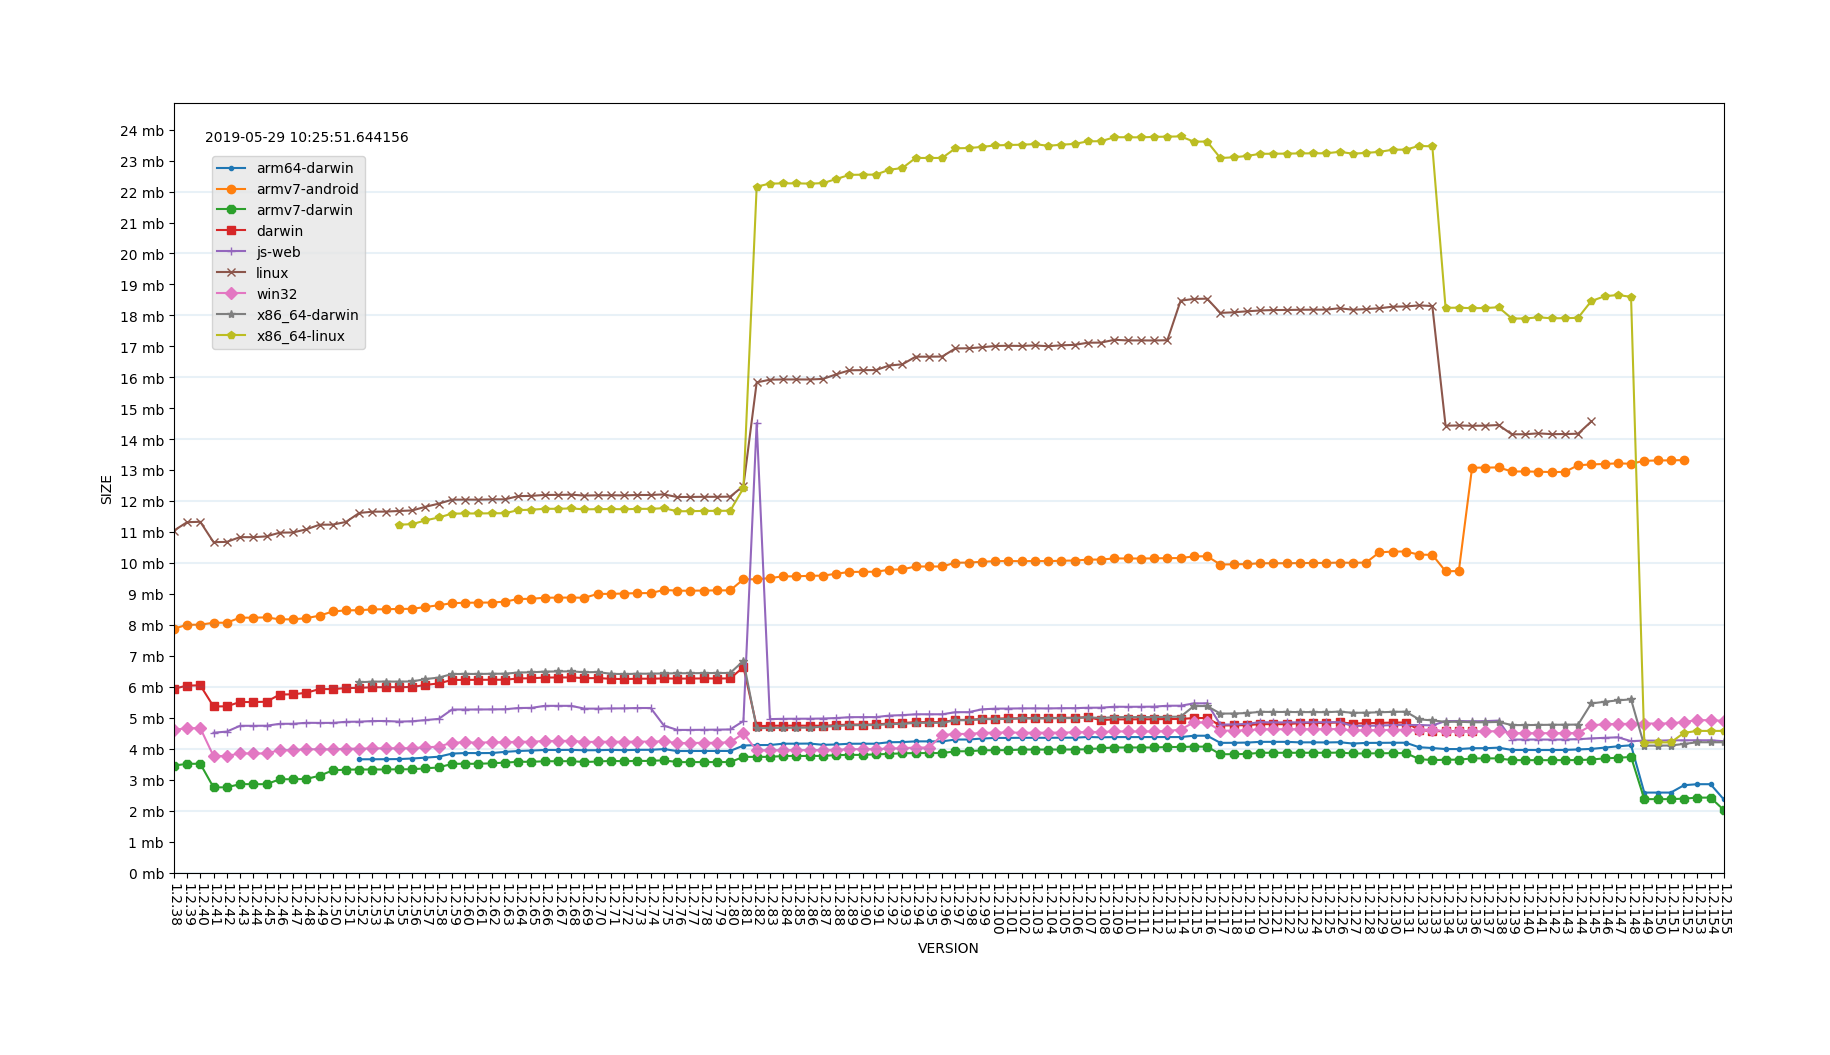
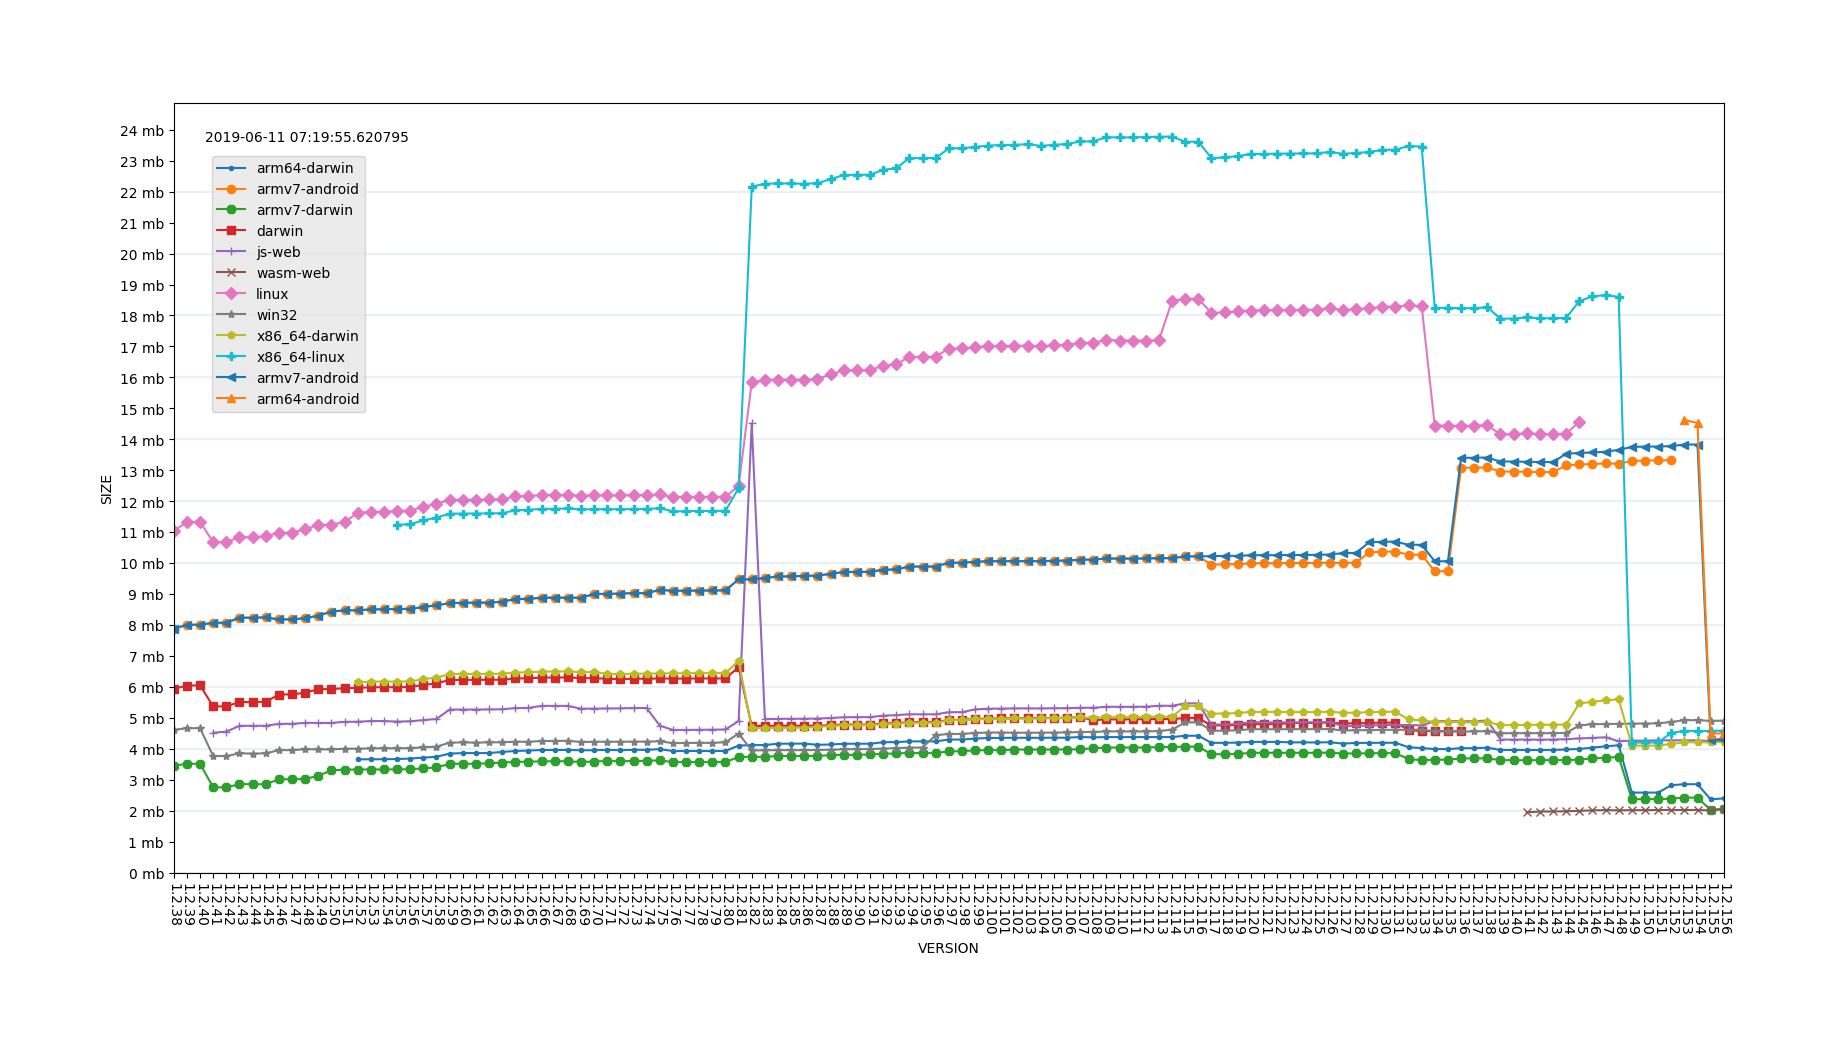
Added arm64-android and wasp-web as new platforms Added a size_small.png that will better show the actual sizes of the stripped engines

diff --git a/check_size.py b/check_size.py
@@ -33,14 +33,17 @@ def read_releases(path):
 
 engines = [
     {"platform": "arm64-darwin", "filename": "dmengine_release"},
-    {"platform": "armv7-android", "filename": "dmengine_release.apk"},
+    {"platform": "armv7-android", "filename": "dmengine_release.apk"}, # added in 1.2.153
     {"platform": "armv7-darwin", "filename": "dmengine_release"},
     {"platform": "darwin", "filename": "dmengine_release"},
     {"platform": "js-web", "filename": "dmengine_release.js"},
+    {"platform": "wasm-web", "filename": "dmengine_release.wasm"}, # added in 1.2.141
     {"platform": "linux", "filename": "dmengine_release"},
     {"platform": "win32", "filename": "dmengine_release.exe"},
     {"platform": "x86_64-darwin", "filename": "dmengine_release"},
     {"platform": "x86_64-linux", "filename": "dmengine_release"},
+    {"platform": "armv7-android", "filename": "dmengine.apk"},
+    {"platform": "arm64-android", "filename": "dmengine.apk"},
 ]
 
 def create_report(releases):
@@ -84,10 +87,25 @@ def create_report(releases):
 
             writer.writerow(row)
 
+def parse_version(version_str):
+    return map(int, version_str.split('.'))
 
-def create_graph():
+def create_graph(out, from_version=None):
     with open('report.csv', 'r') as f:
         data = list(csv.reader(f))
+
+        # only keep the versions starting with from_version and above
+        if from_version is not None:
+            from_version = parse_version(from_version)
+            new_data = []
+            for line in data:
+                if not line[0].startswith('1.2.'):
+                    new_data.append(line)
+                    continue
+                version = parse_version(line[0])
+                if version >= from_version:
+                    new_data.append(line)
+            data = new_data
 
         # get all versions, ignore column headers
         versions = [i[0] for i in data[1::]]
@@ -96,7 +114,9 @@ def create_graph():
         fig, ax = pyplot.subplots(figsize=(20, 10))
         pyplot.xticks(xaxis_version, versions, rotation=270)
         max_ysize = 0
-        for engine, marker in zip(range(1, len(data[0])), itertools.cycle('.o8s+xD*p')):
+        markers = '.o8s+xD*pP<^'
+        assert(len(markers) >= (len(data[0])-1)) # we need unique markers for each platform
+        for engine, marker in zip(range(1, len(data[0])), markers):
             yaxis_size = [i[engine] for i in data[1::]]
             # convert from string to int
             yaxis_size = map(lambda x: int(x) if x > 0 else None, yaxis_size)
@@ -129,7 +149,7 @@ def create_graph():
         frame = legend.get_frame()
         frame.set_facecolor('0.90')
 
-        fig.savefig('size.png', format='png', bbox_extra_artists=(legend,), bbox_inches='tight', pad_inches=1)
+        fig.savefig(out, format='png', bbox_extra_artists=(legend,), bbox_inches='tight', pad_inches=1)
 
 
 def check_for_updates(latest_release, releases):
@@ -147,12 +167,15 @@ if check_for_updates(latest_release, releases):
     print("Found new release {}".format(latest_release))
     releases['releases'].append(latest_release)
 
-    create_report(releases['releases'])
-
     # update the releases on disc
     with open('releases_new.json', 'wb') as f:
         json.dump(releases, f, indent=4, separators=(',', ': '))
     # if everything went right, move the temp file
     shutil.move('releases_new.json', 'releases.json')
 
-    create_graph()
+
+# update report (if releases are missing from report.csv)
+create_report(releases['releases'])
+
+create_graph(out='size.png')
+create_graph(out='size_small.png', from_version='1.2.155') # from 1.2.155, we have stripped versions available for all platforms

diff --git a/README.md b/README.md
@@ -1,7 +1,13 @@
 # dmengine size plot
 This project will plot the size of dmengine (Defold) for all supported platforms and versions. Note that this will show the size of the debug version of dmengine (ie including debug symbols). A release build of dmengine will be smaller.
 
-![Size per platform and version](https://github.com/britzl/dmengine_size/raw/master/size.png)
+Showing stripped versions:
+
+![Size per platform and version](https://github.com/britzl/dmengine_size/raw/master/size_small.png)
+
+History of versions:
+
+![History of size per platform and version](https://github.com/britzl/dmengine_size/raw/master/size.png)
 
 [![](https://travis-ci.org/britzl/dmengine_size.svg?branch=master)](https://travis-ci.org/britzl/dmengine_size/builds)
 
@@ -12,9 +18,16 @@ If you wish to run this script locally you need to have the following things ins
 * [matlibplot](http://matplotlib.org/)
 
 # Usage
-Run [check_size.py](check_size.py) to generate a [report.csv](report.csv) and [size.png](size.png):
+Run [check_size.py](check_size.py):
 
-	python check_size.py
+    python check_size.py
+
+It will generate these files:
+* [releases.json](releases.json)
+* [report.csv](report.csv)
+* [size.png](size.png)
+* [size_small.png](size_small.png)
+
 
 To include a new version of dmengine in the report you need to [add an entry in the releases list in check_size.py](https://github.com/britzl/dmengine_size/blob/master/check_size.py#L28). The sha1 of the version you wish to add can be seen at [d.defold.com](d.defold.com).
 
